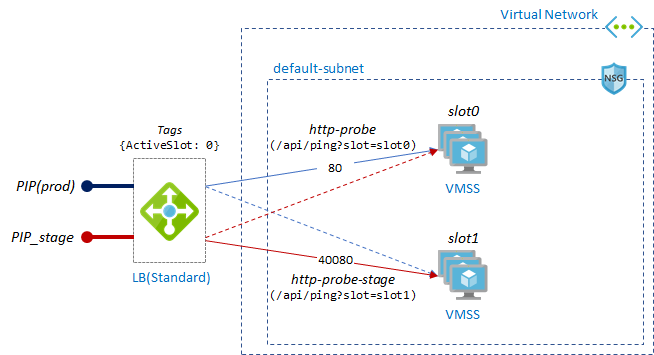
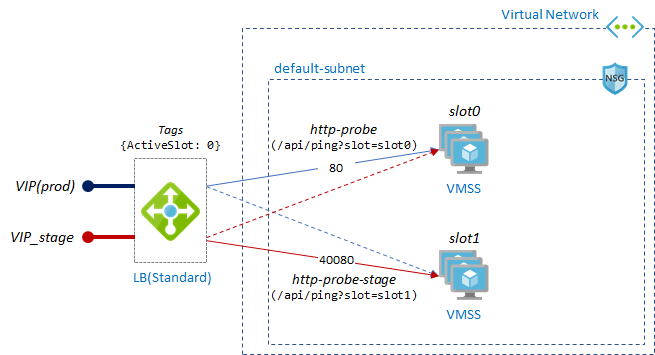
update

diff --git a/README.md b/README.md
@@ -10,10 +10,10 @@ Following architecture provides __NO-downtime VIP swap__ with relatively simple 
 
 ![VIPSWAP_VMSS](./vipswap_vmss.png)
 
-> The magic for VIP swap is by leveraging health-probe (`/api/ping?slot=slot0`) and controlling traffic to the right slot.
+> The magic of VIP swap is by leveraging health-probe (`/api/ping?slot=slot0`) and controlling traffic to the right slot.
 
 For more details:
-- create a PIP for production endpoint (port 80) and a PIP_stage for stage endpoint (port 40080).
+- create a VIP(public IP) for production endpoint (port 80) and a VIP_stage for stage endpoint (port 40080).
 - create two lb_rules for each slot.
 - create an application that awares `/api/ping` endpoint and it returns 200 or 404 depends on its slot (e.g., slot is resloved by VMSS name).
 - create a healthprobe for each slots.
@@ -27,30 +27,32 @@ If you want to access both prod and stage using the same 80 port, you can consid
 - create two nics on VM instance
 - create two backend pools, say `pool0` (slot0/nic0 and slot1/nic1) and `pool1` (slot1/nic0 and slot0/nic1)
   - e.g pool0 - VMSS slot0 with primary nic, VMSS slot1 with secondary nic
-- Azure does not assign a default gateway to secondary nic, see [documentation](https://docs.microsoft.com/en-us/azure/virtual-machines/windows/multiple-nics#configure-guest-os-for-multiple-nics) 
+- Since Azure does not assign a default gateway to secondary nic, set default gateway for secondary nic. see [documentation](https://docs.microsoft.com/en-us/azure/virtual-machines/windows/multiple-nics#configure-guest-os-for-multiple-nics) 
+
+For more information, please refer additioanl [README.md](./terraform/multinic/README.md)
 
 ## Application
 
 In order to VIP swap, application must implement `/api/ping` endpoint and it returns 200 or 404 depends on VMSS slot.
 
-Here is how it implements.
+Here is how it's implemented.
 - VM instance get a slot name from hostname when initializing.
 - Using IMDS to get the hostname and parse the slot name from it.
-    - You can your naming covention and parsing logic to get the right slot name. This example use `workload-prod-vmss-slot0` as a VMSS name.
+    - You can use your own naming covention and parsing logic to get the right slot name. This example use `workload-prod-vmss-slot0` as a VMSS name.
 - For dotnet, use [Singleton DI](https://docs.microsoft.com/en-us/aspnet/core/fundamentals/dependency-injection?view=aspnetcore-3.1) to get slot name one time only.
 
 ## Prep
 
 1. Package sample app by running `build.ps1`.
 2. Build VM image using `packer`.
-3. Update `terraform\variabriables.tf` and run `terraform apply` to create a test environment.
+3. Update `terraform\variables.tf` and run `terraform apply` to create a test environment.
 
 ## Test
 
 For simple test, use `curl` to call api and swap VIP by changing healthprobe. (`/api/ping?slot=slot0` -> `/api/ping?slot=slot1`)
 
 ```
-for i in {1..1000}; do out=$(curl -s --connect-timeout 2 -m 2 <app_ip>/api/test); t=$(date '+%H:%M:%S'); echo "$t $out"; sleep 1s; done
+for i in {1..1000}; do out=$(curl -s --connect-timeout 2 -m 2 <app_vip>/api/test); t=$(date '+%H:%M:%S'); echo "$t $out"; sleep 1s; done
 ```
 
 You'll see changing slot without downtime.
@@ -58,7 +60,7 @@ You'll see changing slot without downtime.
 For more more thorough test, use load test tool like [Apache ab](http://httpd.apache.org/docs/current/programs/ab.html).
 
 ```
-ab -n 10000 -c 50 http://<app_ip>/api/test
+ab -n 10000 -c 50 http://<app_vip>/api/test
 ```
 
 ## Update image
